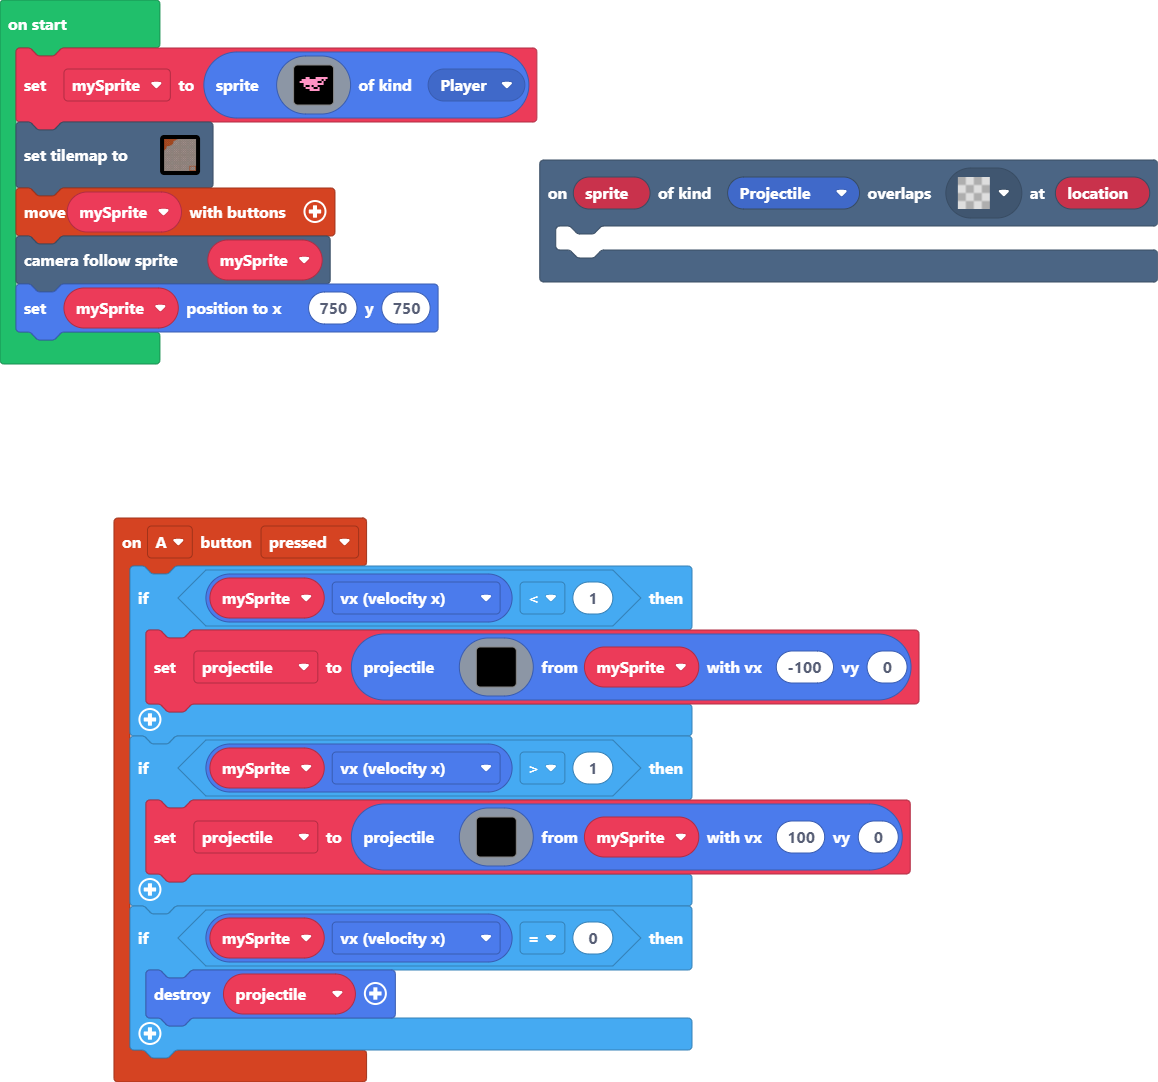
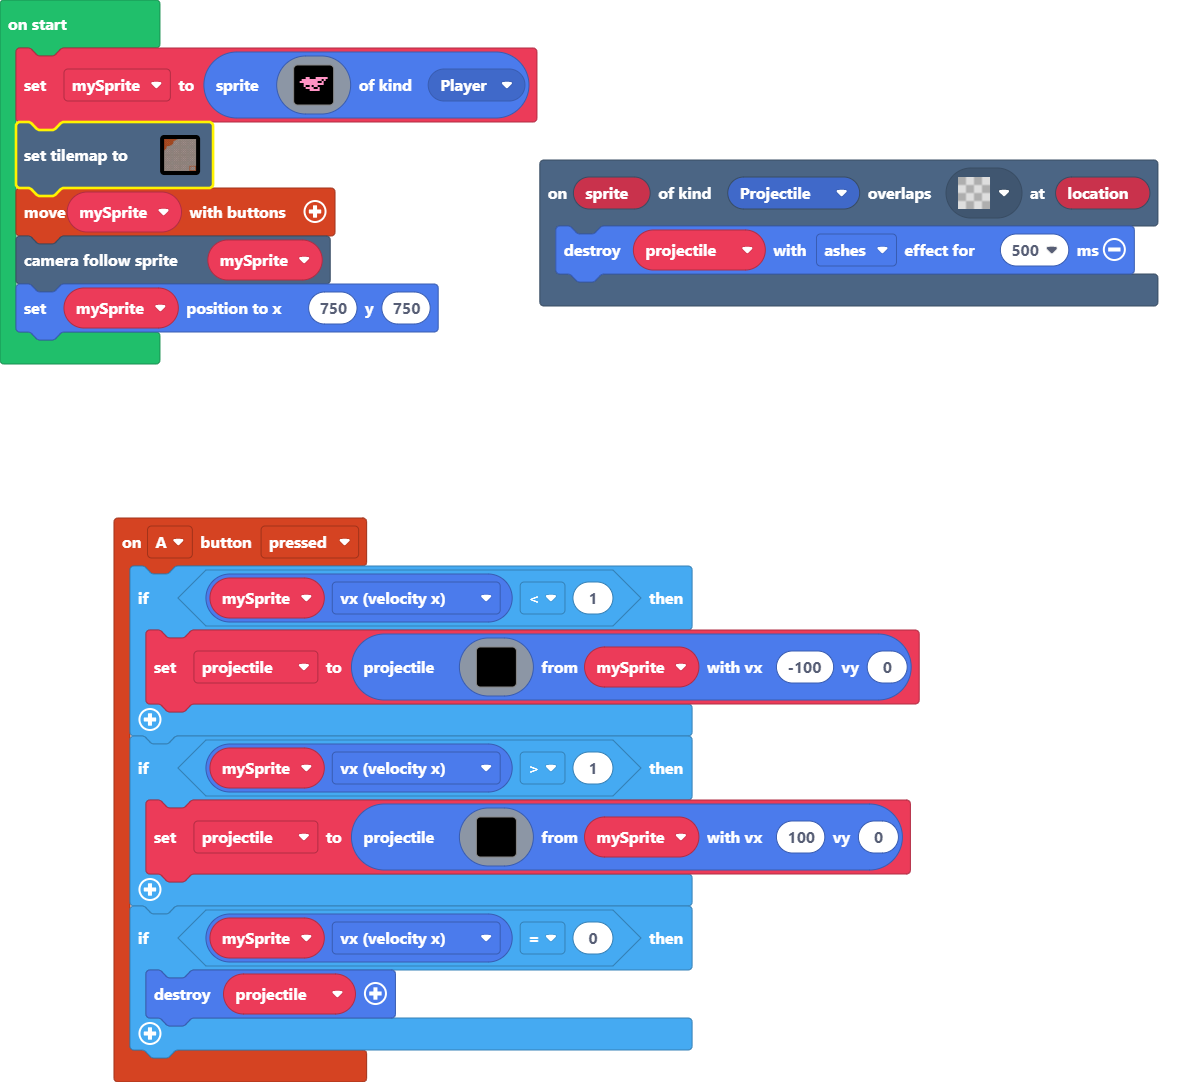
Update main.blocks, main.ts

diff --git a/main.ts b/main.ts
@@ -141,7 +141,7 @@ controller.A.onEvent(ControllerButtonEvent.Pressed, function () {
     }
 })
 scene.onOverlapTile(SpriteKind.Projectile, myTiles.tile3, function (sprite, location) {
-	
+    projectile.destroy(effects.ashes, 500)
 })
 let projectile: Sprite = null
 let mySprite: Sprite = null
